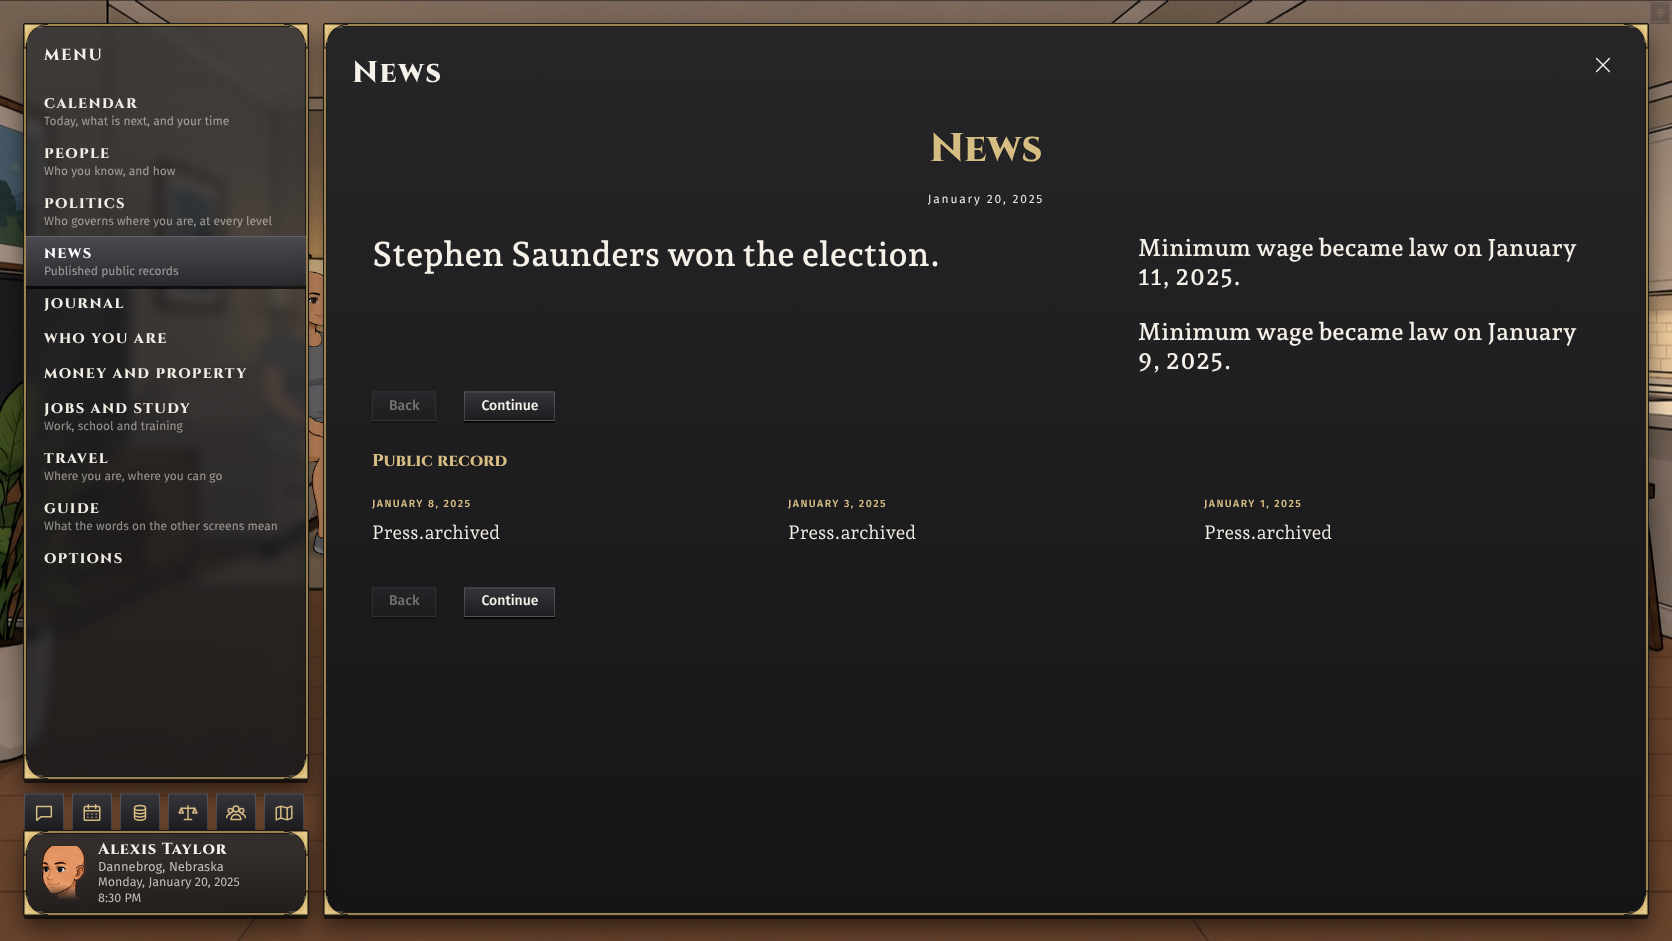
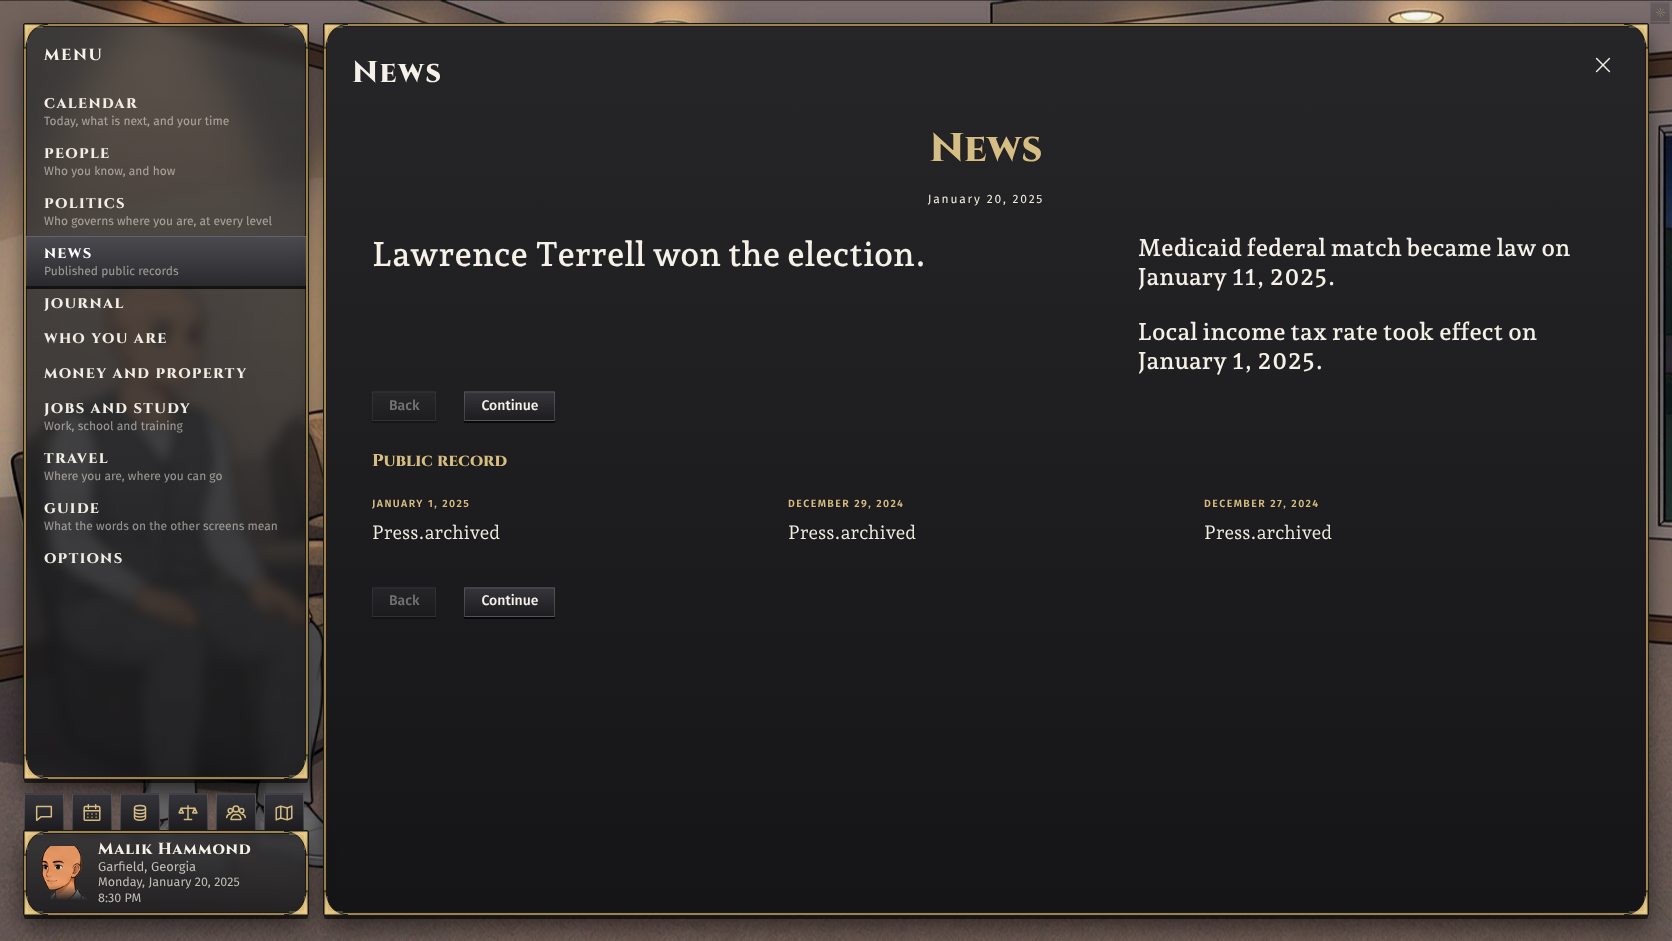
Rates named: reworded bank lines are tagged authored; new screenshots
The five mined lines reworded to name where a rate applies no longer
claim their transcripts' wording: each is an authored part with the
transcript kept as a note. Screenshots retaken in Garfield, Georgia.

Claude-Session: https://claude.ai/code/session_01Dq6vUQeMWH9X4Ks4dBkdDt

diff --git a/docs/play-first/PROGRESS.md b/docs/play-first/PROGRESS.md
@@ -6,6 +6,7 @@ The handoff log. Newest first. Every agent adds one line before it stops, in the
 
 ## Log
 
+- 2026-10-25 20:50 · Claude (m0-m2 lead) · play-stop-10-two-unemployment-rates-one-night · play-first/play-stop-10-two-unemployment-rates-one-night · see the PR head · PR opened · Words reviews five reworded bank lines (now tagged authored) and two new ones · none
 - 2026-10-25 18:25 · CTO verifier/Claude · lane bookkeeping · main · see the head · pushed · #5963 merged, the lane is live and the Oct 24 freeze is lifted. The three dead ends: #5971 (play-stop-23, branch play-first/play-stop-23-job-offer-hold-locks-the-game, a Claude cloud session, last push 16:19 UTC, waits on the owner's screenshot yes), #6062 (play-stop-21, branch play-first/play-stop-21-ballot-stuck-on-first-page, draft, a Claude cloud session, last push 18:10 UTC), #6041 (play-stop-22-a, branch claude/quirky-ride-vrwwz4-play-stop-22, the m0-m2 lead's session, last push 18:11 UTC). ORDER.md now carries a state bracket on every line. The next free item by ORDER is play-first-07-no-random-people-in-rooms (line 9); lines 1 to 8 are in PR, claimed, or after a sibling · none
 - 2026-10-24 18:32 · CTO subagent/Claude Opus · lane built (LAW, README, ORDER, 61 items, skill, pool check) · cto/play-first-lane · see the PR head · PR opened #5963 · the CTO merges #5963; then the next agent takes line 1 of ORDER.md (play-stop-23-job-offer-hold-locks-the-game) · none
 - 2026-10-24 18:04 · CTO/Claude Opus · lane opened · cto/play-first-lane · see the PR · PR opened · the next agent takes item 1 of ORDER.md (play-stop-23-job-offer-hold-locks-the-game) · none
